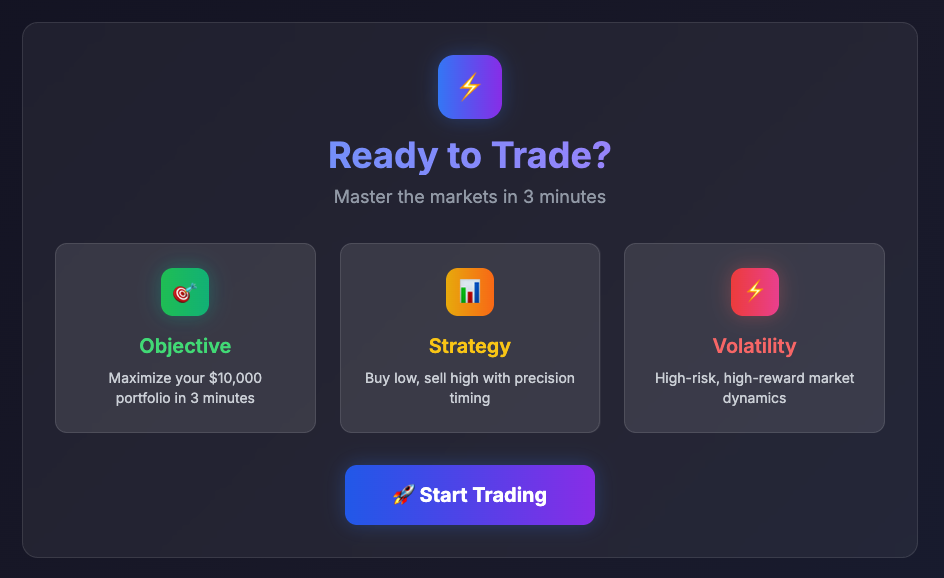
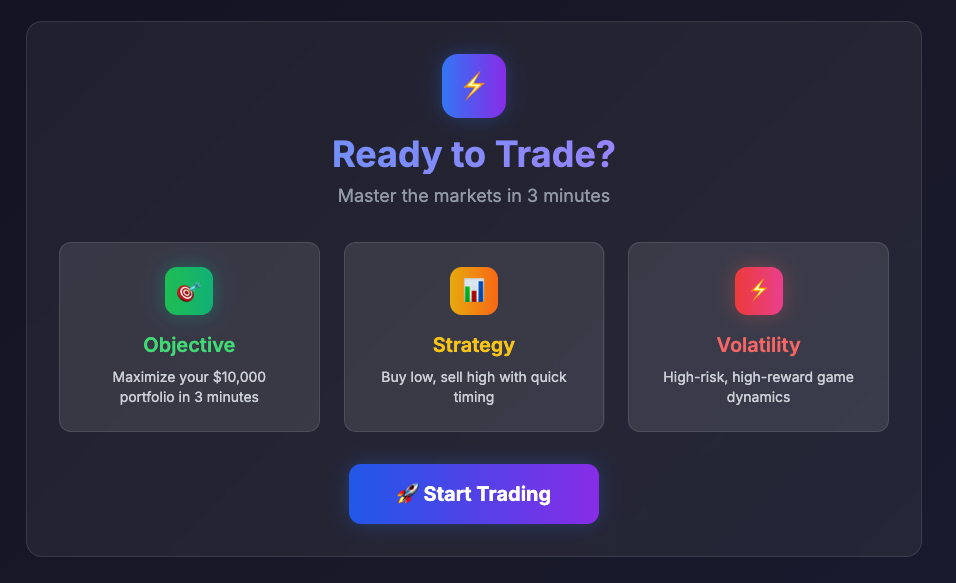
updated naming and style on mobile

diff --git a/index.html b/index.html
@@ -2,51 +2,42 @@
 <html lang="en">
     <head>
         <meta charset="UTF-8" />
-        <title>TradeMaster Pro - Fun Trading Game</title>
+        <title>TradeGame - Fun Trading Game</title>
         <meta
             name="description"
-            content="Master the markets in 60 seconds! TradeMaster Pro is a fun stock trading game with volatile markets, bull/bear cycles, and exciting features. Can you beat the market?"
+            content="Master the markets in 60 seconds! TradeGame is a fun stock trading game with volatile markets, bull/bear cycles, and exciting features. Can you beat the market?"
         />
 
         <!-- Open Graph / Facebook -->
         <meta property="og:type" content="website" />
-        <meta
-            property="og:url"
-            content="https://trademaster-pro.sevalla.page/"
-        />
-        <meta
-            property="og:title"
-            content="TradeMaster Pro - Fun Trading Game"
-        />
+        <meta property="og:url" content="https://tradegame.sevalla.page/" />
+        <meta property="og:title" content="TradeGame - Fun Trading Game" />
         <meta
             property="og:description"
             content="Master the markets in 60 seconds! Fun stock trading game with volatile markets, bull/bear cycles, and exciting features. Challenge your friends!"
         />
         <meta
             property="og:image"
-            content="https://trademaster-pro.sevalla.page/og-image.png"
+            content="https://tradegame.sevalla.page/og-image.png"
         />
         <meta property="og:image:width" content="1200" />
         <meta property="og:image:height" content="630" />
-        <meta property="og:site_name" content="TradeMaster Pro" />
+        <meta property="og:site_name" content="TradeGame" />
 
         <!-- Twitter -->
         <meta property="twitter:card" content="summary_large_image" />
         <meta
             property="twitter:url"
-            content="https://trademaster-pro.sevalla.page/"
+            content="https://tradegame.sevalla.page/"
         />
-        <meta
-            property="twitter:title"
-            content="TradeMaster Pro - Fun Trading Game"
-        />
+        <meta property="twitter:title" content="TradeGame - Fun Trading Game" />
         <meta
             property="twitter:description"
             content="Master the markets in 60 seconds! Fun stock trading game with volatile markets, bull/bear cycles, and exciting features. Challenge your friends!"
         />
         <meta
             property="twitter:image"
-            content="https://trademaster-pro.sevalla.page/og-image.png"
+            content="https://tradegame.sevalla.page/og-image.png"
         />
         <meta property="twitter:creator" content="@yourusername" />
 
@@ -55,7 +46,7 @@
             name="keywords"
             content="trading game, stock simulator, finance game, trading simulator, stock market game, investment game, trading challenge"
         />
-        <meta name="author" content="TradeMaster Pro" />
+        <meta name="author" content="TradeGame" />
         <meta name="viewport" content="width=device-width, initial-scale=1.0" />
 
         <script src="https://cdn.tailwindcss.com"></script>
@@ -103,46 +94,32 @@
             }
         </style>
     </head>
-    <body class="gradient-bg text-white min-h-screen">
+    <body
+        class="gradient-bg text-white min-h-screen flex items-start md:items-center justify-center"
+    >
         <div class="container mx-auto px-4 py-8 max-w-6xl">
-            <!-- Header -->
-            <div class="text-center mb-8">
-                <div class="inline-flex items-center space-x-3 mb-2">
-                    <div
-                        class="w-10 h-10 bg-gradient-to-r from-blue-500 to-purple-600 rounded-xl flex items-center justify-center"
-                    >
-                        <span class="text-xl">📊</span>
-                    </div>
-                    <h1
-                        class="text-4xl font-bold bg-gradient-to-r from-blue-400 to-purple-400 bg-clip-text text-transparent"
-                    >
-                        TradeMaster Pro
-                    </h1>
-                </div>
-                <p class="text-gray-400 text-lg">Fun Trading Game</p>
-            </div>
-
             <!-- Start Screen -->
             <div
                 id="startScreen"
                 class="card-glass rounded-2xl p-8 max-w-4xl mx-auto"
             >
                 <div class="text-center mb-8">
-                    <div
-                        class="w-16 h-16 bg-gradient-to-r from-blue-500 to-purple-600 rounded-2xl flex items-center justify-center mx-auto mb-4 glow-blue"
-                    >
-                        <span class="text-3xl">⚡</span>
+                    <div class="inline-flex items-center space-x-3 mb-2">
+                        <div
+                            class="w-10 h-10 bg-gradient-to-r from-blue-500 to-purple-600 rounded-xl flex items-center justify-center"
+                        >
+                            <span class="text-xl">📊</span>
+                        </div>
+                        <h1
+                            class="text-4xl font-bold bg-gradient-to-r from-blue-400 to-purple-400 bg-clip-text text-transparent"
+                        >
+                            TradeGame
+                        </h1>
                     </div>
-                    <h2
-                        class="text-4xl font-bold mb-2 bg-gradient-to-r from-blue-400 to-purple-400 bg-clip-text text-transparent"
-                    >
-                        Ready to Trade?
-                    </h2>
                     <p class="text-gray-400 text-lg">
                         Master the markets in 60 seconds
                     </p>
                 </div>
-
                 <div class="grid md:grid-cols-3 gap-6 mb-8">
                     <div class="card-glass rounded-xl p-6 text-center">
                         <div
@@ -1122,7 +1099,7 @@
                 const returnPercent = (profitLoss / 10000) * 100;
 
                 // Create shareable text
-                let shareText = `Just played TradeMaster Pro! 🚀\n\n`;
+                let shareText = `Just played TradeGame! 🚀\n\n`;
                 shareText += `Portfolio: $${finalValue.toFixed(2)}\n`;
                 shareText += `Return: ${
                     returnPercent >= 0 ? "+" : ""
@@ -1191,7 +1168,7 @@
                 ctx.fillStyle = "#ffffff";
                 ctx.font = "bold 72px Inter, sans-serif";
                 ctx.textAlign = "center";
-                ctx.fillText("TradeMaster Pro", 600, 200);
+                ctx.fillText("TradeGame", 600, 200);
 
                 // Subtitle
                 ctx.fillStyle = "#9ca3af";
